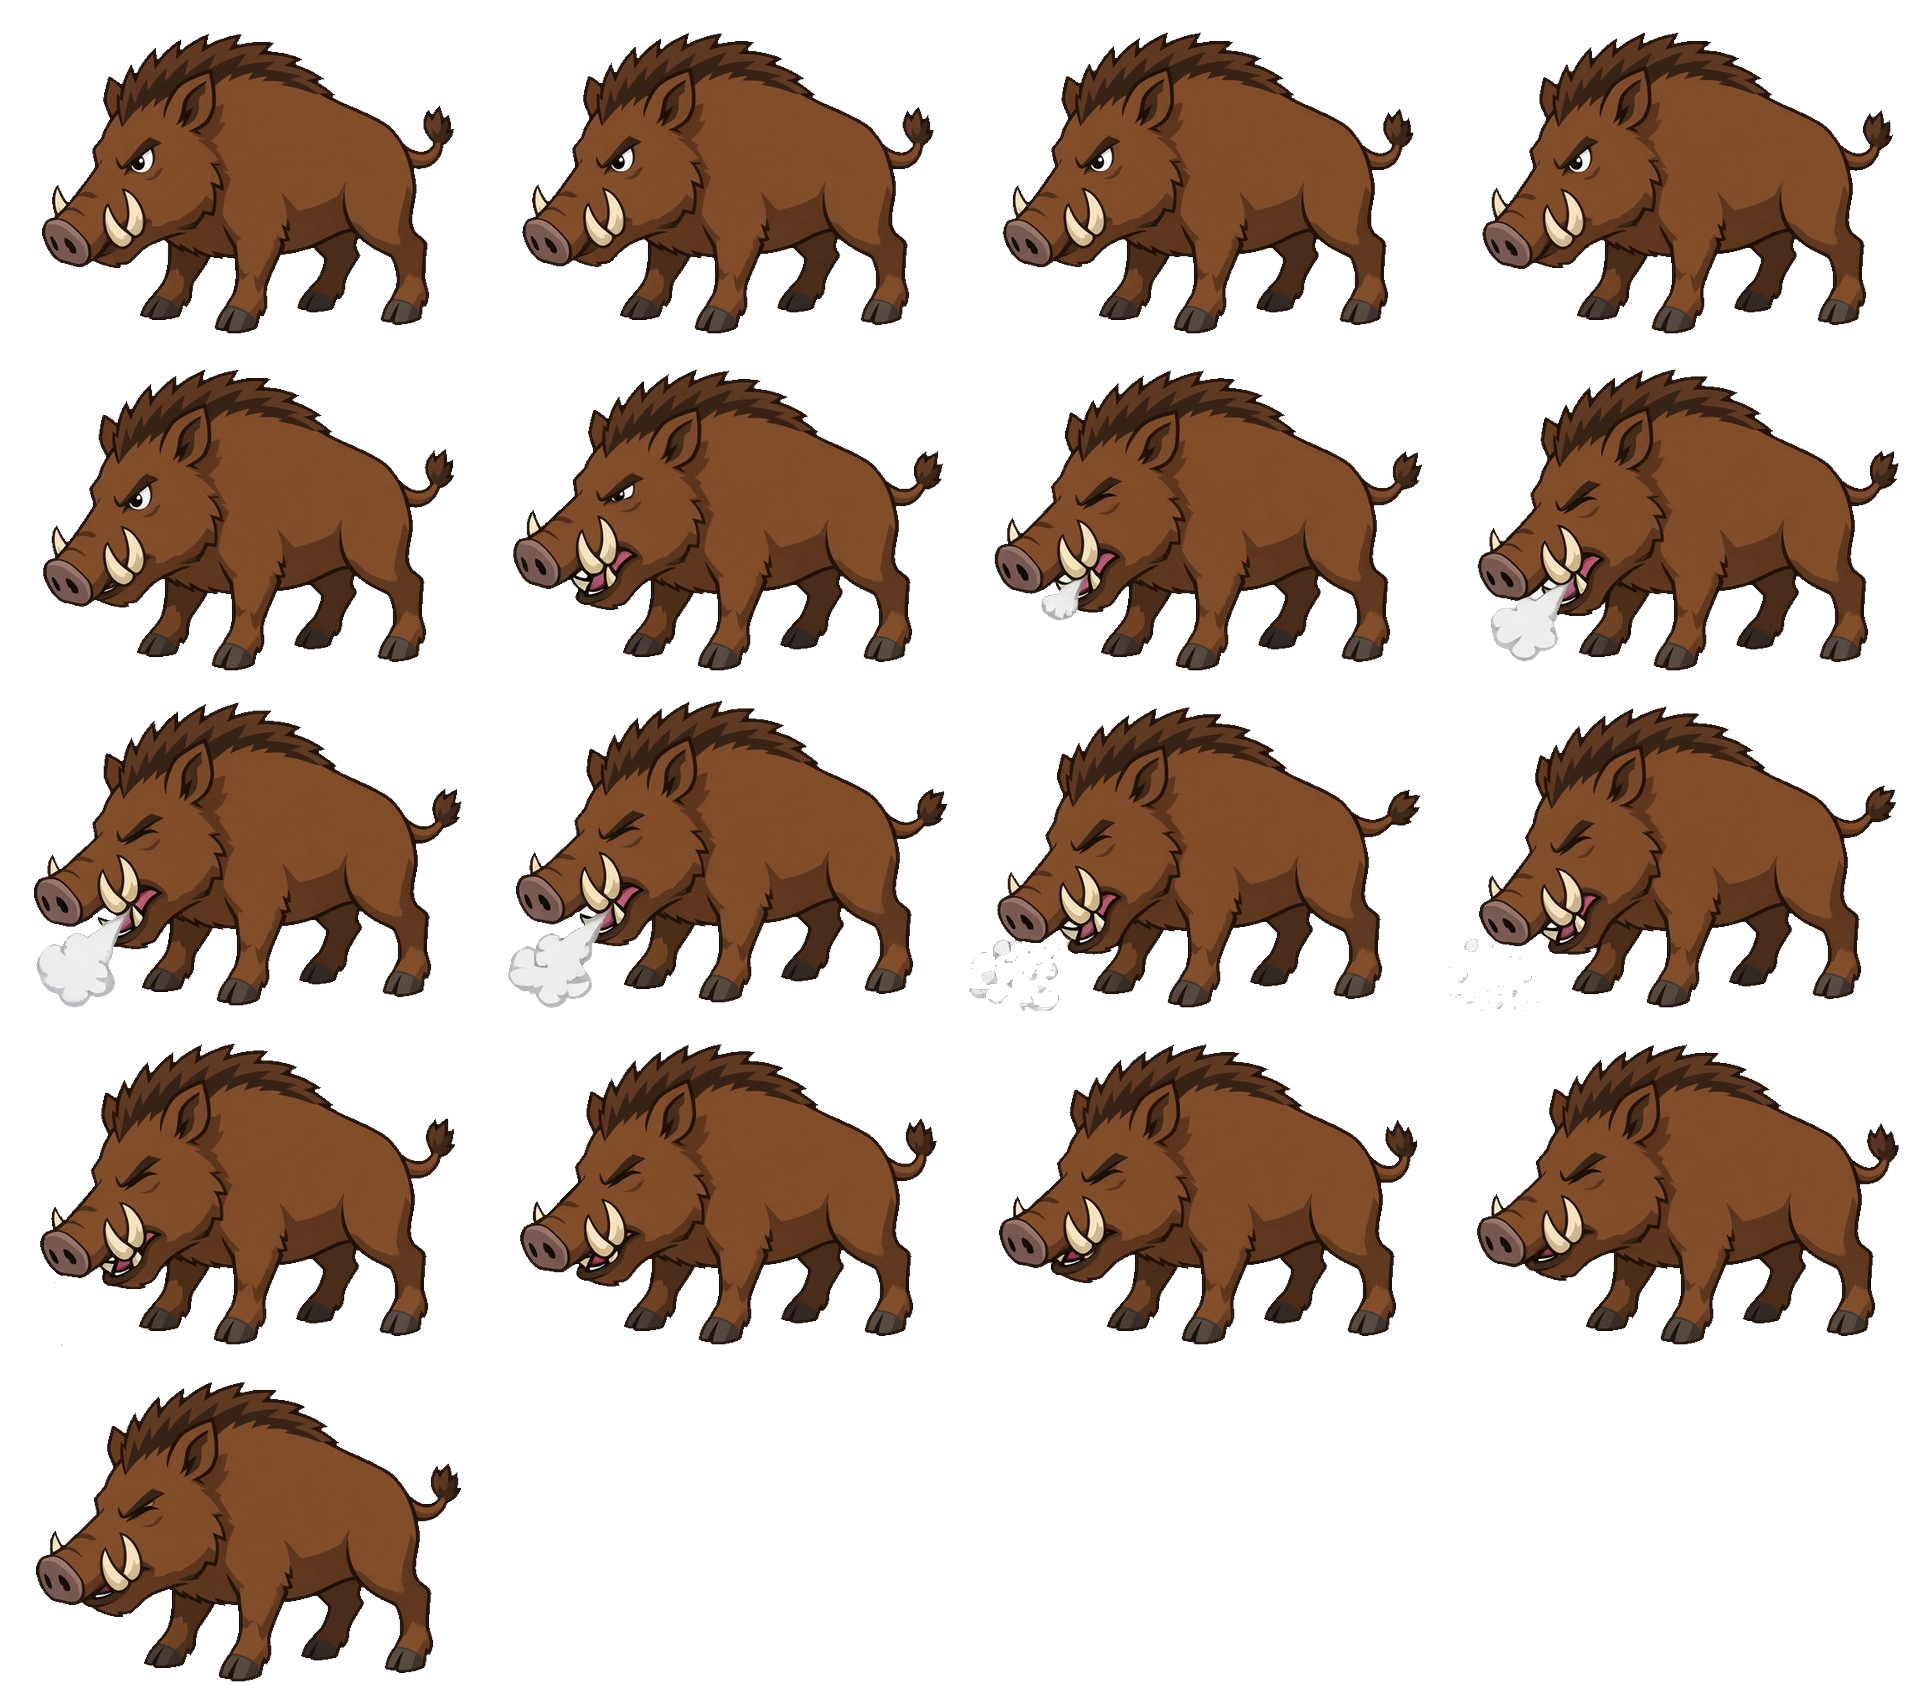
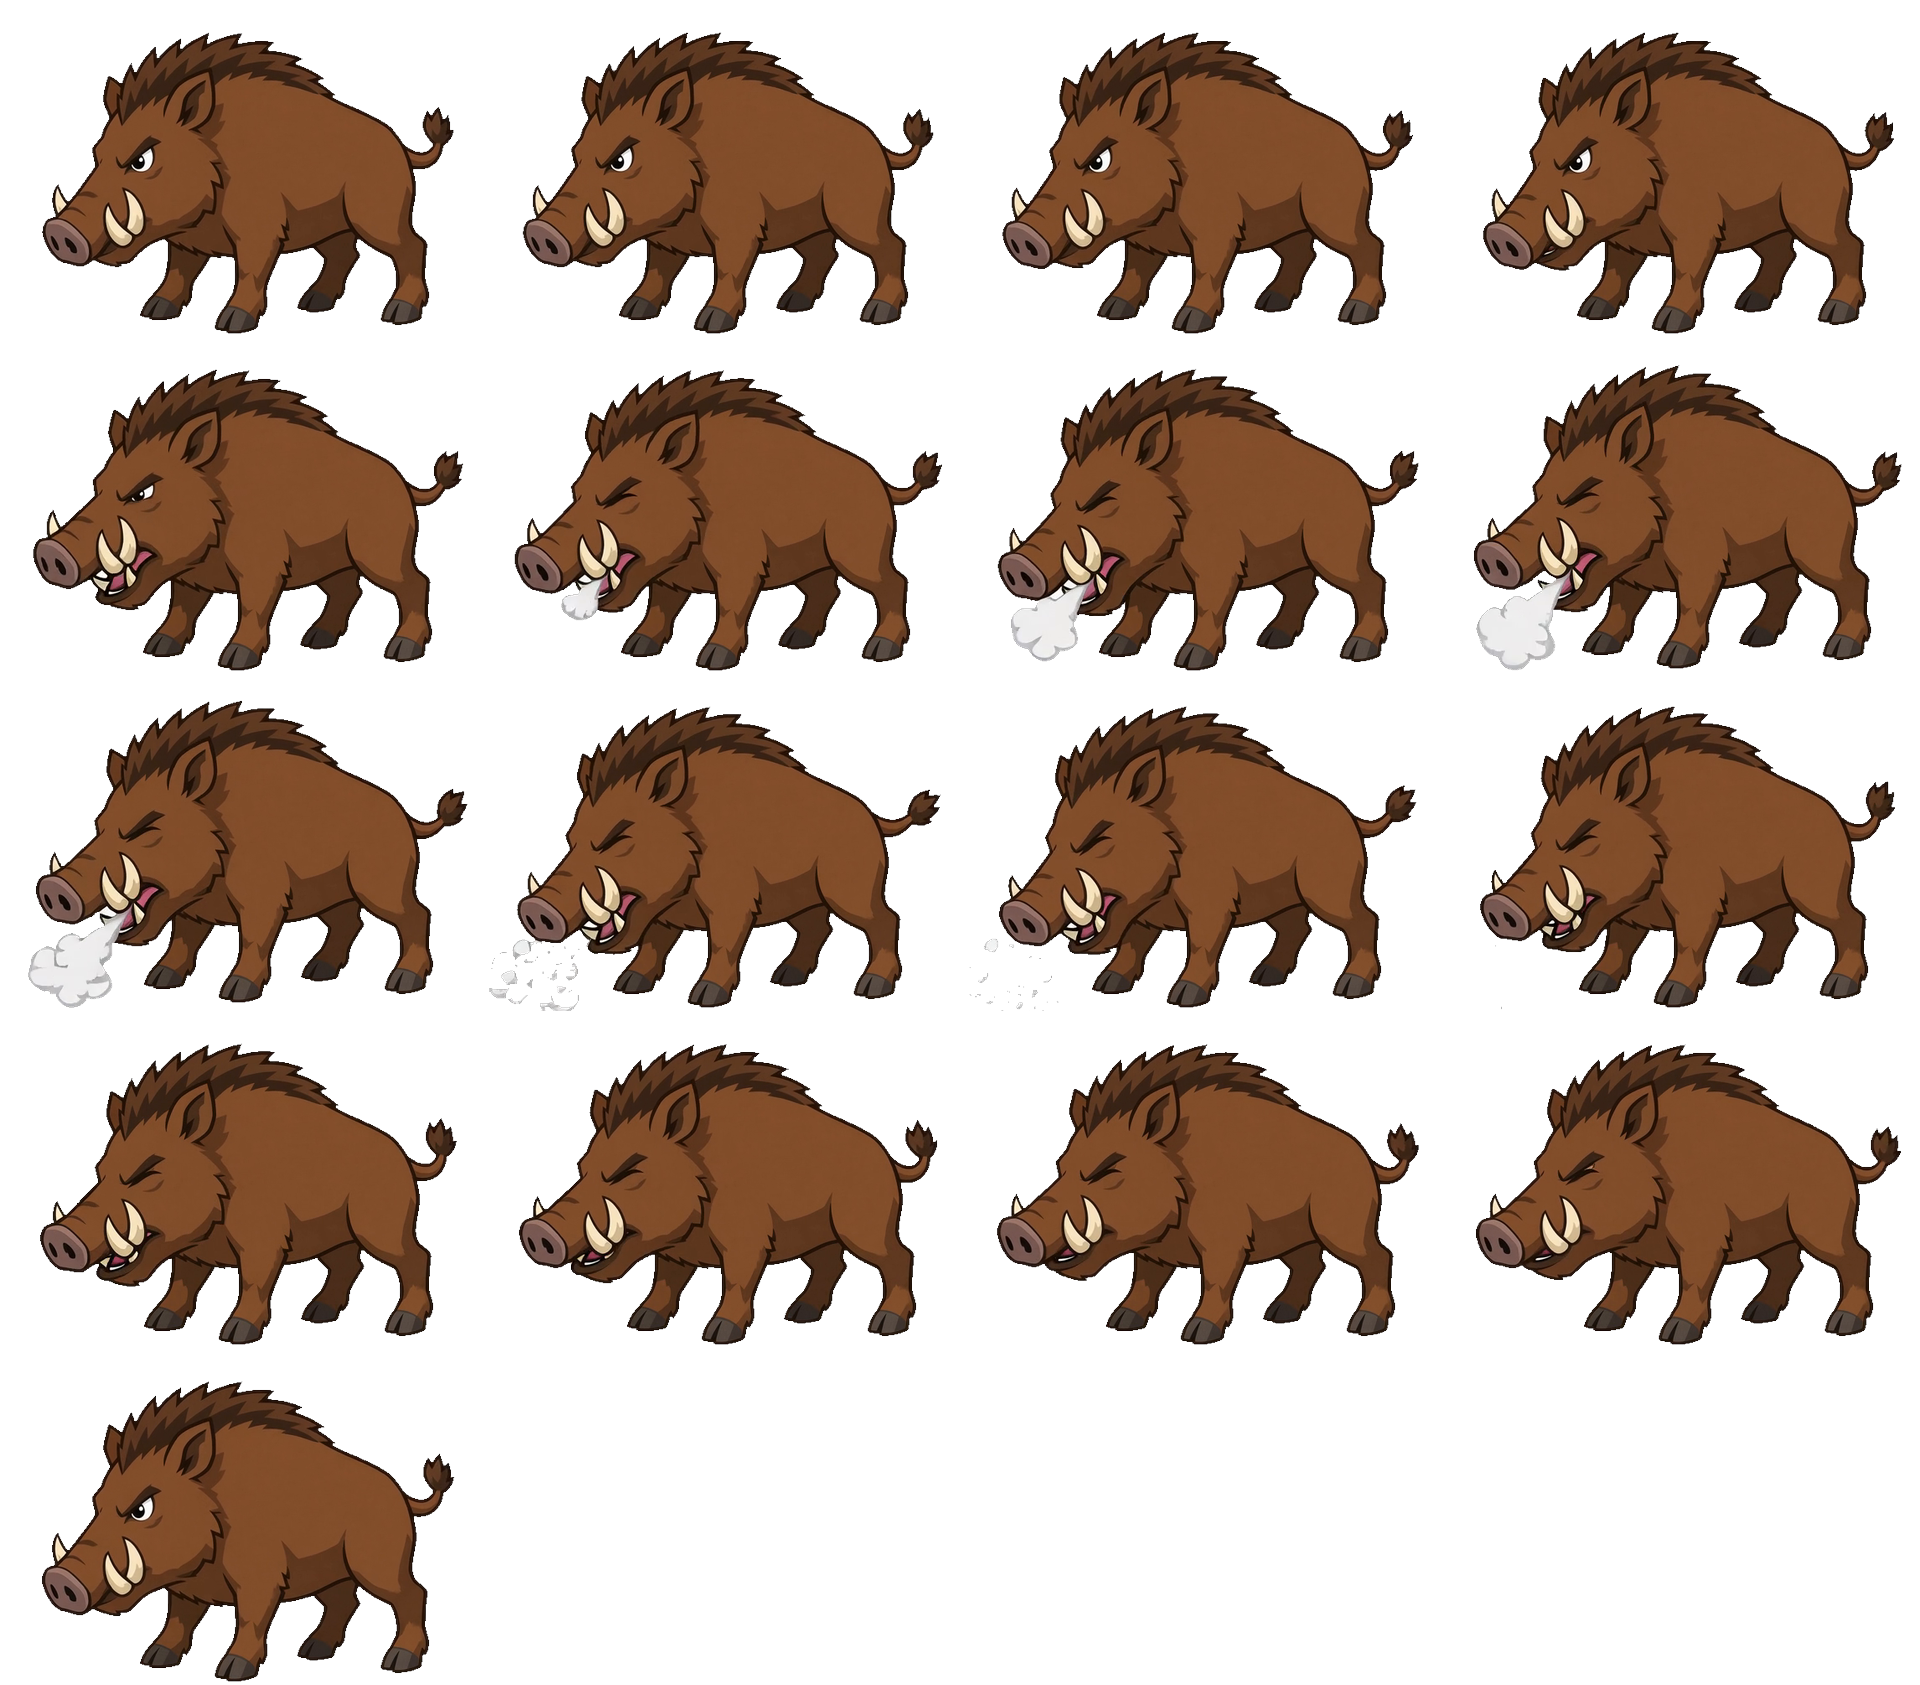
Boar idle holds 6 s between loops, resting on its calmest frame
- video-to-sheet.py: --pause writes a per-animation repeat delay into the
  manifest and rotates the loop so it ends on the frame most like all the
  others (the rest pose), which is the frame the hold shows.
- BootScene passes the pause as repeatDelay.

Claude-Session: https://claude.ai/code/session_01KwKjcUHcbFeyUDFfhHkavE

diff --git a/re-rpg/src/game/scenes/BootScene.ts b/re-rpg/src/game/scenes/BootScene.ts
@@ -10,7 +10,7 @@ import { setMeta } from '@game/session';
 import ANIMS from '@data/anims.json';
 
 /** Spritesheets cut from generated video by scripts/video-to-sheet.py; keyed `<name>_<anim>` (e.g. boar_idle). */
-export const ART_ANIMS: Record<string, { file: string; frameWidth: number; frameHeight: number; frames: number; fps: number; loop: boolean }> = ANIMS;
+export const ART_ANIMS: Record<string, { file: string; frameWidth: number; frameHeight: number; frames: number; fps: number; loop: boolean; pause?: number }> = ANIMS;
 
 /** Optional art, keyed by the texture name the scenes look for (docs/ART.md). Missing files keep the placeholder shapes. */
 export const ART_FILES: Record<string, string> = {
@@ -37,7 +37,7 @@ export class BootScene extends Phaser.Scene {
   private createAnims() {
     for (const [key, a] of Object.entries(ART_ANIMS)) {
       if (!this.textures.exists(`${key}_c`)) continue;
-      this.anims.create({ key: `anim_${key}`, frames: this.anims.generateFrameNumbers(`${key}_c`, { start: 0, end: a.frames - 1 }), frameRate: a.fps, repeat: a.loop ? -1 : 0 });
+      this.anims.create({ key: `anim_${key}`, frames: this.anims.generateFrameNumbers(`${key}_c`, { start: 0, end: a.frames - 1 }), frameRate: a.fps, repeat: a.loop ? -1 : 0, repeatDelay: a.pause ?? 0 });
     }
   }
 

diff --git a/re-rpg/scripts/video-to-sheet.py b/re-rpg/scripts/video-to-sheet.py
@@ -23,6 +23,7 @@ ap.add_argument('video'); ap.add_argument('name'); ap.add_argument('anim'); ap.a
 ap.add_argument('--fps', type=int, default=10); ap.add_argument('--once', action='store_true')
 ap.add_argument('--min', type=float, default=0.8); ap.add_argument('--max', type=float, default=2.5)
 ap.add_argument('--cols', type=int, default=4)
+ap.add_argument('--pause', type=float, default=0, help='seconds to hold on the rest frame between loops')
 args = ap.parse_args()
 
 tmp = tempfile.mkdtemp(prefix='v2s-')
@@ -113,6 +114,11 @@ else:
     _, i, j = best
     chosen = cells[i:j]
     print(f'loop frames {i}..{j - 1} ({len(chosen)} frames, {len(chosen) / args.fps:.1f}s)')
+    # rotate so the loop ends (and any pause holds) on the rest frame: the one most like all the others
+    n = len(chosen)
+    typical = min(range(n), key=lambda k: sum(diff(chosen[k], chosen[m]) for m in range(n) if m != k))
+    chosen = chosen[typical + 1:] + chosen[:typical + 1]
+    print(f'rest frame was {typical}; rotated to end on it')
 
 cols = min(args.cols, len(chosen)); rows = (len(chosen) + cols - 1) // cols
 sheet = Image.new('RGBA', (cols * FW, rows * FH), (0, 0, 0, 0))
@@ -120,6 +126,6 @@ for k, c in enumerate(chosen): sheet.paste(c, ((k % cols) * FW, (k // cols) * FH
 out = os.path.join(OUT, f'{args.name}_{args.anim}@2x.png')
 sheet.save(out, optimize=True)
 manifest = json.load(open(MANIFEST)) if os.path.exists(MANIFEST) else {}
-manifest[f'{args.name}_{args.anim}'] = {'file': f'art/c/{args.name}_{args.anim}@2x.png', 'frameWidth': FW, 'frameHeight': FH, 'frames': len(chosen), 'fps': args.fps, 'loop': not args.once}
+manifest[f'{args.name}_{args.anim}'] = {'file': f'art/c/{args.name}_{args.anim}@2x.png', 'frameWidth': FW, 'frameHeight': FH, 'frames': len(chosen), 'fps': args.fps, 'loop': not args.once, 'pause': int(args.pause * 1000)}
 json.dump(manifest, open(MANIFEST, 'w'), indent=2)
 print(f'{out} {sheet.size} frame {FW}x{FH} x{len(chosen)}; manifest {MANIFEST}')

diff --git a/re-rpg/docs/ART.md b/re-rpg/docs/ART.md
@@ -24,7 +24,7 @@ One per overworld tile type, 1280×540-ish landscape, stored as `public/art/c/bg
 
 ### Animation from generated video
 
-Idle loops (and later deaths) come from short Grok videos of the cut-out still: `python3 scripts/video-to-sheet.py art-src/<name>_<anim>_styleC.mp4 <name> <anim> <height@2x> [--once]`. The script extracts frames at 10 fps, keys the plain background, anchors every frame on the feet of its largest blob (so camera drift vanishes), scales the median body height to the target, and picks the 1.5–2.5 s window whose end frame best matches its start (`--once` keeps the whole clip for one-shots). It writes `public/art/c/<name>_<anim>@2x.png` and records frame size, count and fps in `src/data/anims.json`; BootScene loads every entry and CombatScene plays `anim_<id>_idle` when it exists, falling back to the still. Prompt the video with: *camera locked, no zoom, character stays centred, plain white background, subtle motion only, ends in the same pose it starts*. Keep idles ≤ 20 frames; a 17-frame boar idle is ~1.8 MB.
+Idle loops (and later deaths) come from short Grok videos of the cut-out still: `python3 scripts/video-to-sheet.py art-src/<name>_<anim>_styleC.mp4 <name> <anim> <height@2x> [--once]`. The script extracts frames at 10 fps, keys the plain background, anchors every frame on the feet of its largest blob (so camera drift vanishes), scales the median body height to the target, and picks the 1.5–2.5 s window whose end frame best matches its start (`--once` keeps the whole clip for one-shots). It writes `public/art/c/<name>_<anim>@2x.png` and records frame size, count and fps in `src/data/anims.json`; BootScene loads every entry and CombatScene plays `anim_<id>_idle` when it exists, falling back to the still. Prompt the video with: *camera locked, no zoom, character stays centred, plain white background, subtle motion only, ends in the same pose it starts*. Pass `--pause 6` to hold six seconds between loops; the loop is rotated to end on its calmest frame so the hold looks like standing still. Keep idles ≤ 20 frames; a 17-frame boar idle is ~1.8 MB.
 
 ### Tileset in use: CraftPix vector freebies
 
